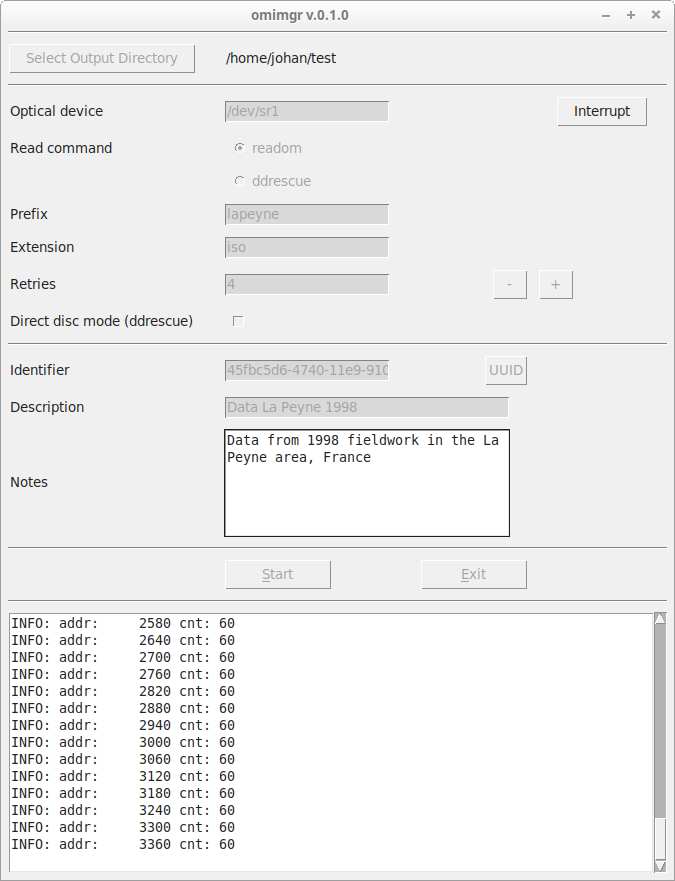
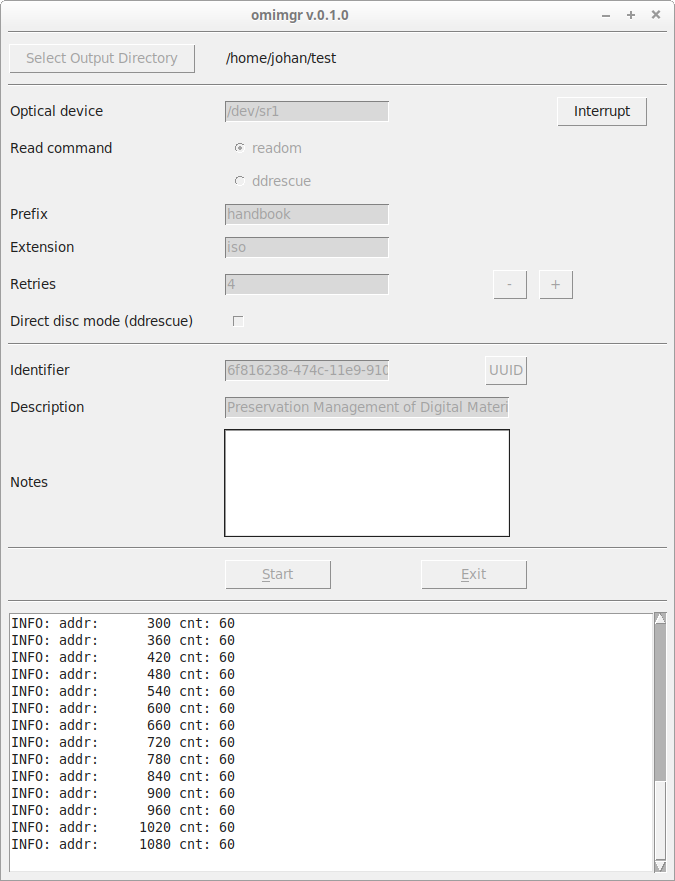
updated readme

diff --git a/readme.md b/readme.md
@@ -85,63 +85,71 @@ Note that the screen output is also written to a log file in the output director
 
 ![](./img/omimgr-success.png)
 
-If the extraction finished without any errors, the output directory now contains the following files:
+If the imaging finished without any errors, the output directory now contains the following files:
 
 ![](./img/omimgr-files.png)
 
-Here, **file000001.dd** through **file000003.dd** are the extracted files; **checksums.sha512** contains the SHA512 checksums of the extracted files, **metadata.json** contains some basic metadata and **omimgr.log** is the log file.
+Here, **handbook.iso** is the created ISO image; **checksums.sha512** contains the SHA512 checksums of the image, **metadata.json** contains some basic metadata and **omimgr.log** is the log file.
 
 If *readom*'s attempt to read the disc resulted in any errors, *omimgr* prompts the user to try again with *ddrescue*:
 
 ![](./img/errors-readom.png)
 
-After clicking *Yes*, *omimgr* will delete the disc image that was created by *readom*, and then start *ddrescue*. If *ddrescue* also exits with any errors, it is possible to do one or more addition rounds with *ddrescue*:
+After clicking *Yes*, *omimgr* will delete the disc image that was created by *readom*, and then start *ddrescue*. If *ddrescue* also exits with any errors, it is possible to do one or more addition passes with *ddrescue*:
 
 ![](./img/error-ddrescue.png)
 
 After clicking *Yes*, you can activate *Direct Disc* mode, or select another optical drive. Press the *Start* button again to start reading the disc. Importantly, *omimgr* does not delete the existing disc image in this case, but it will update it with any additional data that can be rescued from the disc.
+
+## Suggested workflow
+
+In general *readom* is the preferred tool to read a CD-ROM or DVD. However, *readom* does not cope well with discs that are degraded or otherwise damaged. Because of this, the suggested workflow is to first try reading the disc with *readom*. If this results in any errors, try *ddrescue*. It is possible to run multiple subsequent passes with *ddrescue*. If *ddrescue* fails with errors, it sometimes helps to re-run it in *Direct disc* mode (which can be selected from *omimgr*'s interface). The results can often be further improved by running multiple *ddrescue* passes with different optical devices (e.g. a few different external USB drives).
+
+## Interrupting readom or ddrescue
+
+Press the *Interrupt* button to interrupt any running *readom* or *ddrescue* instances. This is particularly useful for *ddrescue* runs, which may require many hours for discs that are badly damaged. Note that interrupting *ddrescue* will not result in any data loss. If you re-run *omimgr* with *ddrescue* on an image that was previously interrupted, it will simply pick up on where the interrupted run stopped. 
 
 ## Metadata file
 
 The file *metadata.json* contains metadata in JSON format. Below is an example:
 
     {
-        "acquisitionEnd": "2019-01-21T13:26:38.813304+01:00",
-        "acquisitionStart": "2019-01-21T13:25:53.570770+01:00",
+        "acquisitionEnd": "2019-03-15T19:03:49.332433+01:00",
+        "acquisitionStart": "2019-03-15T19:03:39.979201+01:00",
         "checksumType": "SHA-512",
         "checksums": {
[4 lines of base64/hex data omitted]
         },
-        "description": "Test tape October 25 2018",
-        "extension": "dd",
-        "files": "",
-        "fillBlocks": false,
-        "identifier": "2d257dec-1d77-11e9-9594-2c4138b5272c",
-        "initBlockSize": 512,
-        "notes": "This tape only contains some old rubbish. Created specifically for testing omimgr.",
-        "prefix": "file",
-        "successFlag": true,
-        "tapeDevice": "/dev/nst0",
-        "tapeimagrVersion": "0.4.0b1"
+        "description": "Preservation Management of Digital Materials",
+        "extension": "iso",
+        "identifier": "6f816238-474c-11e9-9105-dc4a3e413173",
+        "interruptedFlag": false,
+        "maxRetries": "4",
+        "notes": "",
+        "omDevice": "/dev/sr1",
+        "omimgrVersion": "0.1.0",
+        "prefix": "handbook",
+        "readCommand": "readom",
+        "readCommandLine": "readom retries=4 dev=/dev/sr1 f=/home/johan/test/handbook.iso",
+        "rescueDirectDiscMode": false,
+        "successFlag": true
     }
 
 ## Configuration file
 
-*Omimgr*'s internal settings (default values for output file names, tape device, etc.) are defined in a configuration file in Json format. For a global installation it is located at */etc/omimgr/omimgr.json*; for a user install it can be found at *~/.config/omimgr/omimgr.json*. The default configuration is show below:
+*Omimgr*'s internal settings (default values for output file names, the optical device, etc.) are defined in a configuration file in Json format. For a global installation it is located at */etc/omimgr/omimgr.json*; for a user install it can be found at *~/.config/omimgr/omimgr.json*. The default configuration is show below:
 
     {
         "checksumFileName": "checksums.sha512",
         "defaultDir": "",
-        "extension": "dd",
-        "files": "",
-        "fillBlocks": "False",
-        "initBlockSize": "512",
+        "extension": "iso",
         "logFileName": "omimgr.log",
         "metadataFileName": "metadata.json",
-        "prefix": "file",
-        "tapeDevice": "/dev/nst0",
+        "omDevice": "/dev/sr0",
+        "prefix": "disc",
+        "readCommand": "readom",
+        "rescueDirectDiscMode": "False",
+        "retries": "4",
         "timeZone": "Europe/Amsterdam"
     }
 
@@ -151,7 +159,7 @@ You can change *omimgr*'s default settings by editing this file. Most of the abo
 
 - **timeZone**: time zone string that is used to correctly format the *acquisitionStart* and *acquisitionEnd* date/time strings. You can adapt it to your own location by using the *TZ database name* from [this list of tz database time zones](https://en.wikipedia.org/wiki/List_of_tz_database_time_zones).
 
-Note that it is *not* recommended to change the value of *initBlockSize*, as it may result in unexpected behaviour. If you accidentally messed up the configuration file, you can always restore the original one by running the *omimgr-config* tool again.
+If you accidentally messed up the configuration file, you can always restore the original one by running the *omimgr-config* tool again.
 
 ## Uninstalling omimgr
 
